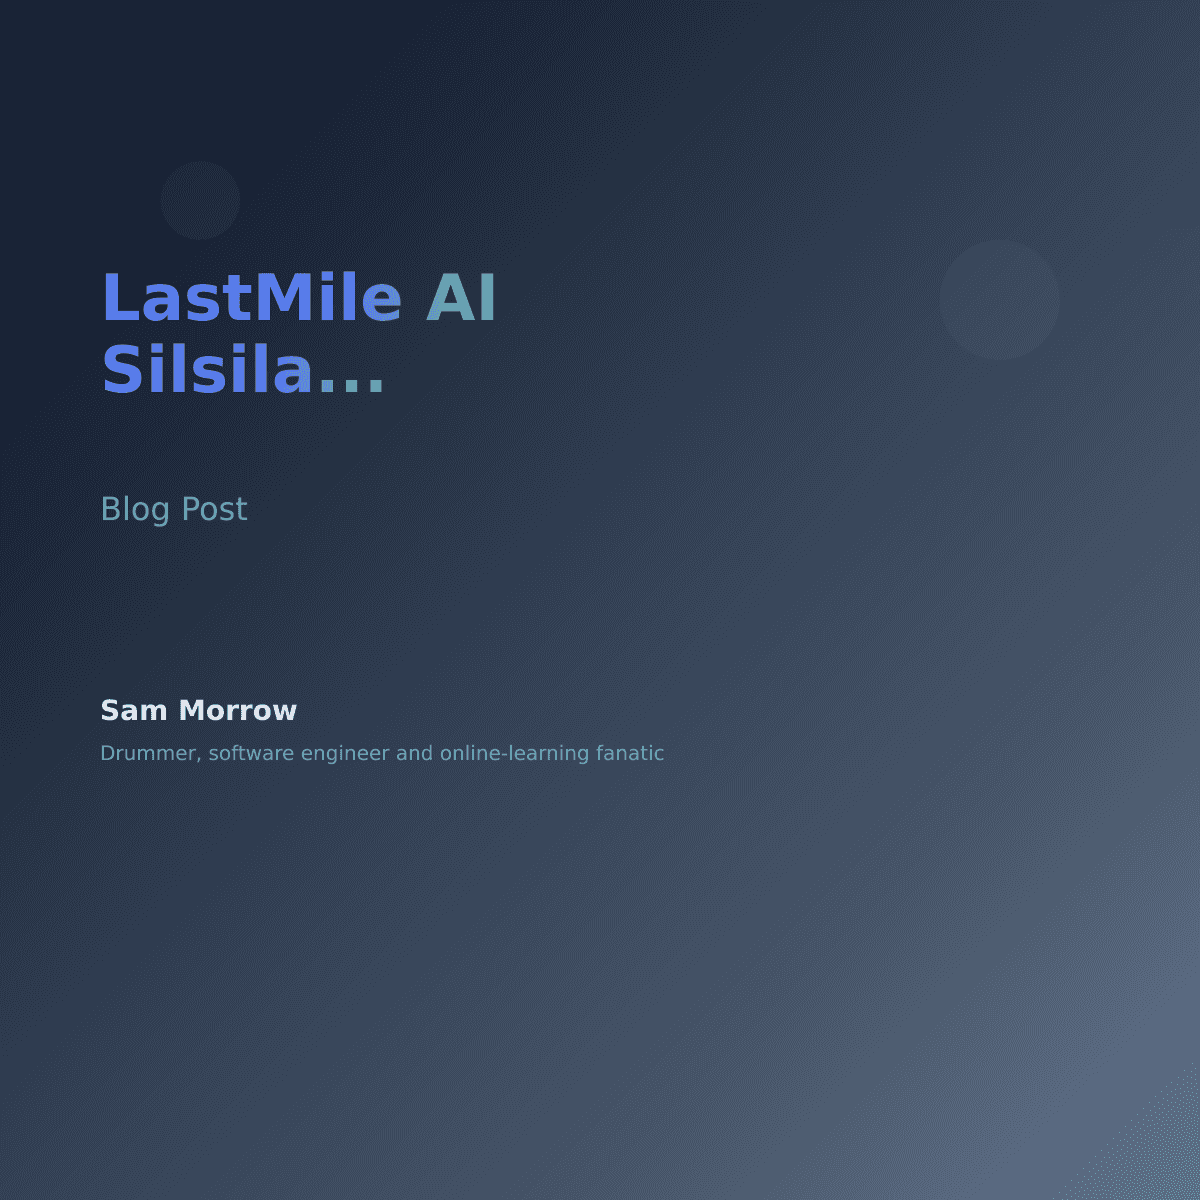
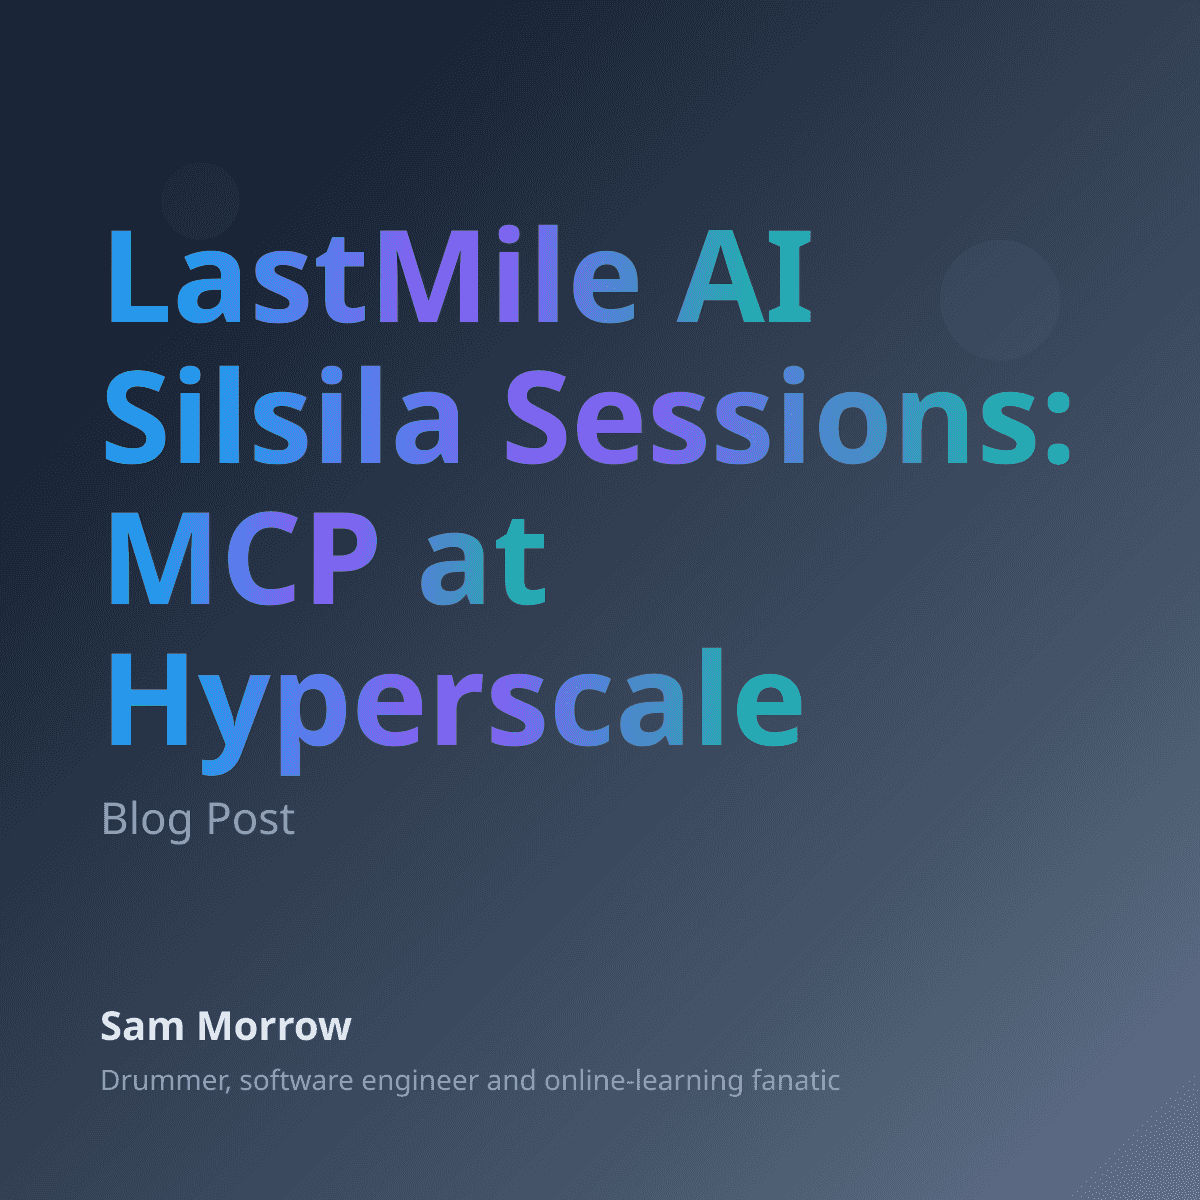
Fix social images and YouTube embeds; add Universe post (#81)
* docs(blog): add Stop Multicasting Slop post

* fix(og): rename lib/seo.js to .mjs so OG images generate on Node 18

generate-og-images.mjs dynamically imports lib/seo.js. Without "type": "module", Node 18 (CI and Netlify) loads it as CommonJS and fails on 'export'. The error was swallowed, so new posts shipped without social images. Same fix as #74 for lib/api.js.

* fix(blog): embed bare YouTube URLs again and drop them from excerpts

remark-gfm (added in #73) autolinks bare URLs before remarkYouTubeEmbed runs, so standalone YouTube URLs rendered as plain links. Also strip standalone URL lines from generated excerpts so they don't appear in social descriptions.

* docs(blog): add Connecting Copilot at GitHub Universe post

* fix(blog): persist social images and fail on generation errors

Include generated images for both new posts, correct the workflow module paths, and cover generation failures with Node 18 regression tests.

* fix(blog): show full titles in larger square social images

Square images capped titles at 12 characters over two lines, so most
titles were truncated and set small. Measure rendered text with the
build machine's fonts and pick the largest size (128px down to 72px)
that fits the whole title in four lines, centred, with larger subtitle
and author text. Escape XML in titles. Rectangular images are unchanged.

---------

diff --git a/lib/remarkYouTubeEmbed.js b/lib/remarkYouTubeEmbed.js
@@ -29,18 +29,33 @@ function createYouTubeIframe(videoId) {
   }
 }
 
+function getStandaloneUrl(node) {
+  if (node.children.length !== 1) return null
+  const child = node.children[0]
+
+  if (child.type === 'text') return child.value.trim()
+
+  // remark-gfm autolinks bare URLs, so a standalone URL arrives as a link whose text is the URL
+  if (
+    child.type === 'link' &&
+    child.children.length === 1 &&
+    child.children[0].type === 'text' &&
+    child.children[0].value.trim() === child.url
+  ) {
+    return child.url
+  }
+
+  return null
+}
+
 export default function remarkYouTubeEmbed() {
   return (tree) => {
     visit(tree, 'paragraph', (node, index, parent) => {
-      // Check if paragraph contains a single text node with a YouTube URL
-      if (node.children.length === 1 && node.children[0].type === 'text') {
-        const text = node.children[0].value.trim()
-        const videoId = extractVideoId(text)
-        
-        if (videoId) {
-          // Replace the paragraph with iframe HTML
-          parent.children[index] = createYouTubeIframe(videoId)
-        }
+      const url = getStandaloneUrl(node)
+      const videoId = url && extractVideoId(url)
+
+      if (videoId) {
+        parent.children[index] = createYouTubeIframe(videoId)
       }
     })
   }

diff --git a/README.md b/README.md
@@ -19,6 +19,19 @@ You can start editing the page by modifying `pages/index.js`. The page auto-upda
 
 The `pages/api` directory is mapped to `/api/*`. Files in this directory are treated as [API routes](https://nextjs.org/docs/api-routes/introduction) instead of React pages.
 
+## Blog assets
+
+After adding or editing a post in `_blog`, generate its social images and RSS entry:
+
+```bash
+npm run generate-og-images
+npm run generate-rss
+```
+
+`npm run dev` does not generate these assets. `npm run build:export` runs both
+generators before exporting the site, and social-image generation errors stop
+the build rather than publishing pages with missing images.
+
 ## Learn More
 
 To learn more about Next.js, take a look at the following resources:

diff --git a/_blog/connecting-copilot-at-github-universe.md b/_blog/connecting-copilot-at-github-universe.md
@@ -1,0 +1,9 @@
+---
+title: "Connecting Copilot at GitHub Universe"
+date: '2026-11-03T00:00:00.000Z'
+slug: 'connecting-copilot-at-github-universe'
+---
+
+https://www.youtube.com/watch?v=F2UUxR4kRlI
+
+My team and I built a thing: [GitHub Copilot Connectors](https://docs.github.com/en/copilot/concepts/customizations/copilot-connectors)
